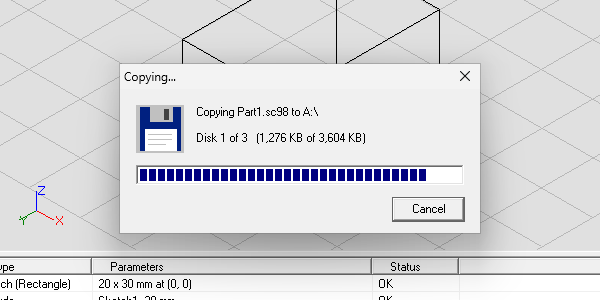
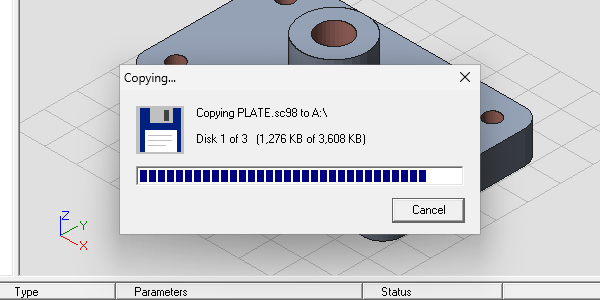
Version 1.1: Export for Rapid Prototyping and Shaded
README: the new features, a section on them, fresh screenshots on
Windows 11 and ReactOS, S in the keys table, the new modules. The roadmap
marks 1.1 done.

diff --git a/README.md b/README.md
@@ -7,23 +7,24 @@
 > change your mind afterwards: every feature is fully editable, and
 > everything built on it follows. A true 32-bit Windows application with a
 > genuine Multiple Document Interface, a 16-colour toolbar, real-time*
-> wireframe graphics and a Turbo button. Runs in 16 MB of RAM**. Fits on
-> two floppy disks***.
+> wireframe graphics, photorealistic** shading, Export for Rapid
+> Prototyping and a Turbo button. Runs in 16 MB of RAM***. Fits on one
+> floppy disk****.
 >
-> <sub>\* about 12 frames a second. \*\* untested. \*\*\* one, if
-> they're 2.88 MB. We don't talk about that.</sub>
+> <sub>\* about 12 frames a second. \*\* flat. \*\*\* untested.
+> \*\*\*\* packed with UPX, which came out in 1998, so it counts.</sub>
 
-![SolidCraft 98 on Windows 11, showing the Mounting Plate sample](docs/screenshots/windows11-mounting-plate.png)
+![SolidCraft 98 on Windows 11, showing the Mounting Plate sample, shaded](docs/screenshots/windows11-mounting-plate.png)
 
 SolidCraft 98 is a parametric CAD program written the way it would have
 been written in 1999: in Visual Basic, with an MDI window, a `TreeView`, a
 `ListView` in Report mode, and a wireframe viewport drawn with `Line`, one
-edge at a time.
+edge at a time. The shaded view fills in every pixel itself.
 
 It's a joke, but it works. You can sketch, extrude, revolve, drill holes,
 put features on top of other features, change any of them later, open
-designs from SolidCraft itself, and save the part to a file nobody else can
-read.
+designs from SolidCraft itself, save the part to a file nobody else can
+read, and export it as an STL file that any 3D-printing slicer can.
 
 > **SolidCraft 98 is a parody.** It is not affiliated with, endorsed by, or a
 > replacement for SolidCraft, and it shares no code with it.
@@ -31,12 +32,12 @@ read.
 ![SolidCraft 98 on ReactOS, opening a design made in SolidCraft](docs/screenshots/reactos-opens-a-solidcraft-design.png)
 
 <sub>On ReactOS with the Classic theme, at 800 x 600: a design made in
-SolidCraft, rebuilt in SolidCraft 98. The fillet is waiting for SolidCraft
-2000.</sub>
+SolidCraft, rebuilt and shaded in SolidCraft 98. The fillet is waiting for
+SolidCraft 2000.</sub>
 
 ## Getting it
 
-Download `SolidCraft98-1.0.zip` from the
+Download `SolidCraft98-<version>.zip` (the newest is 1.1) from the
 [Releases page](../../releases), check its SHA-256 against the one listed
 there if you like, unzip it anywhere,
 and run `SolidCraft98.exe`. There's no installer and nothing to register:
@@ -51,12 +52,12 @@ virtual machine) and run `A:\SC98.EXE`.
 
 ## What it can't do yet
 
-- Export. Parts only save as `.sc98`, which nothing else reads. (It can open
-  SolidCraft designs, though: see below.)
-- Shading. It's wireframe, one `Line` at a time.
 - Sketches are rectangles and circles, flat, facing up. Revolve turns them
   about the Y axis. Holes go straight down from a top face.
-- No booleans: a boss on a plate is two bodies that touch.
+- No booleans to speak of. In an STL, a body standing wholly on another's
+  top face is joined to it; bodies that meet any other way stay separate
+  (slicers merge them).
+- Export is STL only. Parts save as `.sc98`, which nothing else reads.
 
 ## What's in it
 
@@ -65,8 +66,9 @@ virtual machine) and run `A:\SC98.EXE`.
 - Each part opens in its own child window, which you can minimise inside the
   app by accident.
 - A feature tree on the left and a timeline along the bottom.
-- A wireframe viewport. It starts isometric. Drag with the left button to
-  orbit and the right button to pan; `+` and `-` zoom.
+- A viewport, wireframe or shaded. It starts isometric, looking at the
+  front, right and top. Drag with the left button to orbit and the right
+  button to pan; `+` and `-` zoom. S shades it, slowly.
 - Commands: Sketch Rectangle (with rounded corners), Sketch Circle,
   Extrude, Revolve, and Hole. Plus Undo, Zoom to Fit and Regenerate.
 - It's parametric. Double-click any feature to change its numbers, and
@@ -75,6 +77,8 @@ virtual machine) and run `A:\SC98.EXE`.
 - Sketches sit on the ground or on top of an extrude, and move with it.
 - Holes go into the top of any extrude. "Through all" goes through
   everything stacked underneath.
+- File > Export for Rapid Prototyping writes a binary STL, closed and
+  facing out, for a 3D printer or a service bureau.
 - Save and Open use `Put` and `Get` on a single `Type`. Open a file from a
   newer version and you're told so. Files from versions 3 and 4 are converted.
 - Number boxes go through `CDbl` with no validation, so typing `20mm` gets you
@@ -108,6 +112,9 @@ minutes. (It's in `samples/Mounting Plate.sc98` if you'd rather look.)
    8 mm. The boss moves up with the plate, and the bore still goes all the
    way through.
 8. **Save.** Ctrl+S.
+9. **Shade it.** Press S, and watch it render a few rows at a time.
+10. **Print it.** File > Export for Rapid Prototyping (*.stl). Open the STL
+    in any slicer (PrusaSlicer, Cura, OrcaSlicer...) and print it.
 
 Tips:
 
@@ -118,6 +125,25 @@ Tips:
   selected extrude too.
 - Number boxes do arithmetic: 80/2, 25+3.5. They don't do units, and
   they'll tell you so.
+
+## Shaded, and Export for Rapid Prototyping
+
+**View > Shaded** (S, or the cube on the toolbar) draws the part as solid
+surfaces. It's a software renderer, as was the custom: every triangle is
+filled in pixel by pixel with a depth for each pixel, so near things hide
+far things properly, and lines go where faces meet at a corner. Then the
+picture goes up a few rows at a time, top to bottom. It takes about a
+second and a half, on purpose. While you orbit, the view is wireframe; it
+shades again when you let go.
+
+**File > Export for Rapid Prototyping (\*.stl)** writes the part for a 3D
+printer: a binary STL in millimetres, closed, every triangle facing out,
+holes cut all the way through, and the part moved into the all-positive
+corner of space as the 1989 format asked. A boss standing on a plate is joined to it, so the two come out as
+one solid. Circles become 64-sided. The samples open in PrusaSlicer as
+manifold and slice without repairs.
+
+![Export for Rapid Prototyping](docs/screenshots/windows11-export-stl.png)
 
 ## Opening SolidCraft designs
 
@@ -163,6 +189,8 @@ With Turbo on:
 - **Regenerate** (F5) says "Did not converge. Try again." twice, then
   succeeds on the third press. The solver uses a `Variant`.
 - **Orbit** is capped at 4 frames a second, and the status bar says so.
+- **Shaded** takes four seconds instead of one and a half: Turbo quality.
+  Every pixel is rendered twice, to be sure.
 - **"20mm" in a number box** escalates: Type mismatch, then Still a type
   mismatch, then "It's a TextBox, not a mind reader", then a tip about
   `Val()`. On the fifth try it gives up and takes 20.
@@ -207,6 +235,7 @@ the clock or a disk drive, and no design is ever lost.
 | R, C | Sketch rectangle, sketch circle |
 | E, V, H | Extrude, Revolve, Hole |
 | I, F | Isometric view, Zoom to fit |
+| S | Shaded (again for wireframe) |
 | Enter, or double-click | Edit the selected feature |
 | Del | Delete the selected feature |
 | + / - | Zoom in and out |
@@ -238,7 +267,10 @@ drawn at startup.
 | `modCommands.bas` | Every command, once |
 | `modModel.bas` | The design `Type`, the feature list, Save and Open |
 | `modKernel.bas` | Turns features into edges (the "geometry kernel") |
-| `modView.bas` | Projection, orbit, drawing |
+| `modView.bas` | Projection, orbit, wireframe drawing |
+| `modMesh.bas` | Turns the part into closed triangle meshes |
+| `modShade.bas` | The shaded view: a software renderer |
+| `modStl.bas` | Export for Rapid Prototyping (binary STL) |
 | `modBars.bas` | The toolbar and status bar, drawn in PictureBoxes |
 | `modIcons.bas` | Toolbar icons as 16x16 text pixel art |
 | `modImport.bas` | Opening SolidCraft designs |

diff --git a/ROADMAP.md b/ROADMAP.md
@@ -1,11 +1,15 @@
 # Roadmap
 
-What's planned, and what might happen. Only the first section is a promise.
+What's been done, and what might happen. Nothing below "Done" is a promise.
 
-## Planned
+## Done
 
 - **1.1:** Export for Rapid Prototyping (`.stl`), so parts can be 3D-printed;
   and a shaded view, slow on purpose (slower still with Turbo on).
+
+## Planned
+
+Nothing new is planned. What comes next, if anything, is from the list below.
 
 ## Maybe, not promised
 
